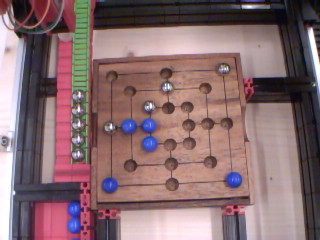
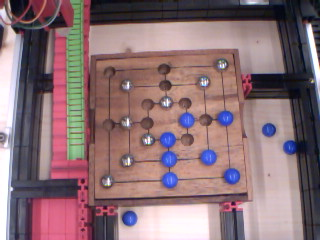
Added data.py

diff --git a/Tria.py b/Tria.py
@@ -13,9 +13,8 @@ import random
 import cv2
 import logging
 import opt
-import sqlite3 as lite
+import data
 import sys
-import os
 logging.basicConfig(level=logging.DEBUG)
 debug = logging.debug
 
@@ -56,10 +55,10 @@ Ypos = [900, 900, 900, 1471, 1670, 1471, 2500, 2500, 2500,
         3926, 4747, 4747, 4747, 5531, 5531, 5531]
 
 # Coordinate posizioni immagine fotocamera
-XposIMG = [105, 159, 217, 125, 161, 199, 144, 163, 181, 105, 123,
-           144, 183, 201, 220, 144, 164, 184, 123, 162, 203, 105, 165, 226]
-YposIMG = [69, 67, 64, 84, 82, 81, 101, 102, 100, 121, 121, 121,
-           118, 118, 117, 139, 139, 137, 159, 158, 156, 179, 177, 173]
+XposIMG = [101, 156, 213, 122, 160, 198, 143, 159, 179, 103, 120, 139, 179,
+           200, 217, 141, 161, 180, 120, 163, 200, 101, 162, 223]
+YposIMG = [66, 62, 60, 80, 79, 78, 97, 97, 97, 119, 114, 117, 114, 112, 113,
+           134, 134, 133, 155, 154, 152, 174, 172, 169]
 # Valore posizione(0 = posizione vuota, 1 = pallina Robot, 10 = pallina User)
 EMPTY = 0
 ROBOT = 1
@@ -210,8 +209,8 @@ def fromto(x1, y1, x2, y2):
 
 
 def ValposReset():
-    global TRIA
     "Rilevamento somme blu posizioni fotocamera all'inizio."
+    global TRIA
     try:
         for i in range(0, 50):
             frameCamera = txt.getCameraFrame()
@@ -264,11 +263,11 @@ def ValposUpdate():
                 print("pallina blu nella posizione "), i
         if abs(
                 blue -
-                ValposCameraB[i]) < 1500 and abs(
+                ValposCameraB[i]) < 2000 and abs(
                 green -
-                ValposCameraG[i]) < 1500 and abs(
+                ValposCameraG[i]) < 2000 and abs(
                 red -
-                ValposCameraR[i]) < 1500:
+                ValposCameraR[i]) < 2000:
             if Val[i] == ROBOT:
                 if opt.TogliPallineR:
                     flag = 0
@@ -353,7 +352,6 @@ def Strategia():
     "Strategia robot."
     opt.PosAttacco = []
     V = POS_CENTRALI
-    ritorno = True
     if (Val[V[0]] == EMPTY or
         Val[V[1]] == EMPTY or
         Val[V[2]] == EMPTY or
@@ -445,7 +443,7 @@ def ControlloAttacco():
         if Val[i] == EMPTY:
             Val[i] = ROBOT
             FPossibiliTria()
-            opt.Priorita = EMPTY
+            opt.Priorita = 0
             Val[i] = EMPTY
             if len(opt.PosSvolgiTria) > 1:
                 AddPallina(i)
@@ -591,7 +589,7 @@ def TogliPallina():
                 Val[i] = EMPTY
             if len(opt.PosTogliPallina) > 0:
                 for k in opt.PosTogliPallina:
-                    if Val[k] == USER
+                    if Val[k] == USER:
                         RemovePallina(k)
                         return
 
@@ -727,6 +725,7 @@ def Spostamento():
                 if len(PosSposta(j)) > 0:
                     Val[j] = 0
                     PosSpostaUpdate()
+                    Val[j] = 1
                     if j not in opt.PosSpostaU:
                         for k in PosSposta(j):
                             MovePallina(j, k)
@@ -739,15 +738,7 @@ reset()
 txt.startCameraOnline()
 Lampeggio(2, 0.2)
 ValposReset()
-try:
-    os.remove("data.db")
-except BaseException:
-    pass
-db = lite.connect("data.db")
-with db:
-    c = db.cursor()
-    c.execute('CREATE TABLE if not exists Continue(interrupt TEXT)')
-    c.execute("INSERT INTO Continue VALUES('True')")
+data.Insert("Continue", 'True')
 lamp.setLevel(OUTMAX)
 User = False
 Robot = False
@@ -794,9 +785,8 @@ if (Robot):
         ValposUpdate()
         Controlli()
     #------------- Inizio seconda parte gioco---------------
-    with db:
-        c.execute(
-            "UPDATE Continue SET interrupt = 'False' WHERE interrupt = 'True'")
+
+    data.Insert("Continue", 'False')
     print("___2 parte___")
     Fase = 2
     while not Fine:
@@ -847,9 +837,7 @@ if (User):
         reset()
     #------------- Inizio seconda parte gioco---------------
 
-    with db:
-        c.execute(
-            "UPDATE Continue SET interrupt = 'False' WHERE interrupt = 'True'")
+    data.Insert("Continue", 'False')
     print("___2 parte___")
     Fase = 2
     while not Fine:

diff --git a/data.py b/data.py
@@ -1,0 +1,32 @@
+import sqlite3 as lite
+
+db = lite.connect("data.db")
+with db:
+    c = db.cursor()
+
+
+def Insert(name, val):
+    with db:
+        try:
+            c.execute("DELETE FROM %s" % (name))
+        except BaseException:
+            pass
+        c.execute("CREATE TABLE if not exists %s (val)" % (name))
+        if isinstance(val, list):
+            db.executemany(
+                "INSERT INTO %s (val) VALUES (?)" %
+                (name), [
+                    (x,) for x in val])
+        elif isinstance(val, str):
+            val = (val,)
+            db.execute("INSERT INTO %s (val) VALUES (?)" % (name), val)
+        else:
+            db.execute("INSERT INTO %s (val) VALUES (%d)" % (name, val))
+
+
+def Print(name):
+    with db:
+        c.execute("SELECT val FROM %s" % (name))
+        rr = c.fetchall()
+        for r in rr:
+            print(r[0])

diff --git a/DrawRectangleCoordinatesTria.py b/DrawRectangleCoordinatesTria.py
@@ -3,11 +3,11 @@ import cv2
 WHITE = [255, 255, 255]
 
 # Coordinate posizioni immagine fotocamera
-x_pos = [105, 159, 217, 125, 161, 199, 144, 163, 181, 105, 123, 144, 183, 201,
-          220, 144, 164, 184, 123, 162, 203, 105, 165, 226]
+x_pos = [101, 156, 213, 122, 160, 198, 143, 159, 179, 103, 120, 139, 179,
+            200, 217, 141, 161, 180, 120, 163, 200, 101, 162, 223]
 
-y_pos = [69, 67, 64, 84, 82, 81, 101, 102, 100, 121, 121, 121, 118, 118, 117, 139,
-         139, 137, 159, 158, 156, 179, 177, 173]
+y_pos = [66, 62, 60, 80, 79, 78, 97, 97, 97, 119, 114, 117, 114, 112, 113,
+           134, 134, 133, 155, 154, 152, 174, 172, 169]
 
 img = cv2.imread('img/TXTCamImg.jpg')
 for x, y in zip(x_pos, y_pos):
